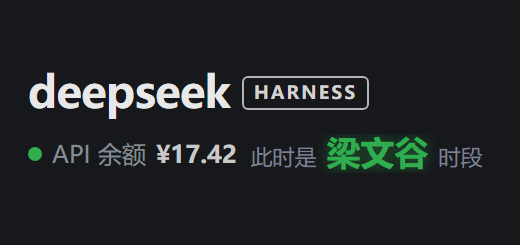
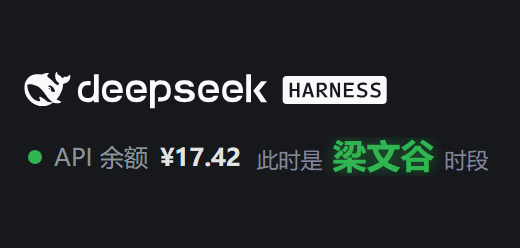
docs(assets): 截图改用真实字标（鲸鱼+HARNESS），尺寸贴近侧栏

Changed region(s): [[0.0308, 0.2857, 0.7692, 0.4857], [0.0615, 0.5429, 0.9538, 0.7143]]

diff --git a/assets/preview.html b/assets/preview.html
@@ -1,8 +1,12 @@
 <!doctype html>
 <!-- Screenshot generator for README / plugin market. No real account data:
-     the balance and the period text are fixed fixtures. Render at exactly the
-     sidebar width (260 CSS px), then crop the empty bottom rows with 36 CSS px
-     of padding on the background colour (#17181c), so no dead space remains:
+     the balance and the period text are fixed fixtures.
+     `assets/wordmark.svg` is the real "deepseek HARNESS" wordmark extracted from
+     the DSH web bundle (whale + lettering + badge, 182x24 at 1x), so the brand
+     row matches the live sidebar.
+     Render at exactly the sidebar width (260 CSS px), then crop the empty
+     bottom rows and keep 36 CSS px of padding on the background colour
+     (#17181c), so no dead space remains:
      msedge --headless=new --disable-gpu --hide-scrollbars \
        --force-device-scale-factor=2 --window-size=260,200 \
        --screenshot=assets/_raw-valley.png \
@@ -15,23 +19,18 @@
   <title>balance chip preview</title>
   <style>
     :root {
-      --dsw-alias-label-primary: #e8e8e8;
+      --dsw-alias-label-primary: #f9fafb;
       --dsw-alias-label-secondary: #9aa0a6;
       --sidebar: #17181c;
-      --rail-border: rgba(255, 255, 255, .10);
     }
     html, body { margin: 0; background: var(--sidebar); }
     body { font: 12px/18px system-ui, "Microsoft YaHei", sans-serif; color: var(--dsw-alias-label-primary); }
-    .sidebar { width: 260px; padding: 12px 10px 16px; box-sizing: border-box; }
-    .brand { display: flex; align-items: center; gap: 6px; padding: 2px 4px 0; }
-    .brand-word { font-size: 22px; font-weight: 700; letter-spacing: -.02em; }
-    .brand-badge {
-      margin-top: 2px; padding: 1px 5px; border: 1px solid rgba(255, 255, 255, .75); border-radius: 3px;
-      font-size: 9px; font-weight: 600; letter-spacing: .12em; line-height: 13px; opacity: .9;
-    }
+    .sidebar { width: 260px; padding: 10px 10px 14px; box-sizing: border-box; }
+    .brand { display: flex; align-items: center; padding: 2px 2px 0; }
+    .wordmark { display: block; width: 182px; height: 24px; }
     .chip {
-      box-sizing: border-box; display: flex; align-items: center; gap: 5px;
-      margin: 12px 2px 0; padding: 0 2px; overflow: hidden; opacity: .85; white-space: nowrap;
+      box-sizing: border-box; display: flex; align-items: center; gap: 6px;
+      margin: 12px 2px 0; padding: 0 2px; overflow: hidden; opacity: .9; white-space: nowrap;
     }
     .dot { flex: none; width: 7px; height: 7px; border-radius: 50%; background: #34c759; }
     .label { flex: none; color: var(--dsw-alias-label-secondary); }
@@ -46,10 +45,7 @@
 </head>
 <body>
   <div class="sidebar">
-    <div class="brand">
-      <span class="brand-word">deepseek</span>
-      <span class="brand-badge">HARNESS</span>
-    </div>
+    <div class="brand"><img class="wordmark" src="wordmark.svg" alt="deepseek HARNESS"></div>
     <div class="chip">
       <span class="dot"></span>
       <span class="label">API 余额</span>

diff --git a/AGENTS.md b/AGENTS.md
@@ -54,7 +54,7 @@
 - 截图（不含真实账户信息，余额固定 `¥17.42`）：`assets/preview.html?state=valley|peak` 用 Edge headless
   （`--headless=new --disable-gpu --hide-scrollbars --force-device-scale-factor=2 --window-size=260,200`，
   宽度等于侧栏 260px，避免右侧空白）渲染成临时 raw，再把底部空行裁掉、四周留 36 CSS px 底色（`#17181c`），
-  输出固定 520×245 的 `assets/screenshot-valley.png` / `screenshot-peak.png`（裁剪脚本见 `preview.html` 注释）；
+  输出固定 520×248 的 `assets/screenshot-valley.png` / `screenshot-peak.png`（裁剪脚本见 `preview.html` 注释；品牌行用 `assets/wordmark.svg`——从 DSH 前端包提取的原版 182×24 字标，仅截图用）；
   图标 `assets/icon-preview.html` → `assets/icon.png`（512 CSS px ×2 = 1024×1024）
 - 市场截图约定：仓库根 `screenshots.json` 是 awesome-dsh-plugin 的「作者自声明截图」文件（1-8 张、必须是
   GitHub 图床的 https URL），比 catalog 的 `data/screenshots.json` 优先；README 里的 `assets/*.png` 则用于

diff --git a/README.md b/README.md
@@ -26,6 +26,8 @@ DSH 侧边栏顶部品牌行下方实时显示 **DeepSeek API 账户余额**。
 
 截图用的余额是固定示例值（`¥17.42`），不含任何真实账户信息；生成方式见
 [`assets/preview.html`](assets/preview.html) 顶部注释（Edge headless 渲染，`--force-device-scale-factor=2`）。
+品牌行里的 `assets/wordmark.svg` 是从 DeepSeek Harness 前端包里提取的原版字标（鲸鱼 + deepseek + HARNESS 徽标），
+只用于让截图和真实侧栏一致，不参与插件运行。
 
 ## 图标
 
